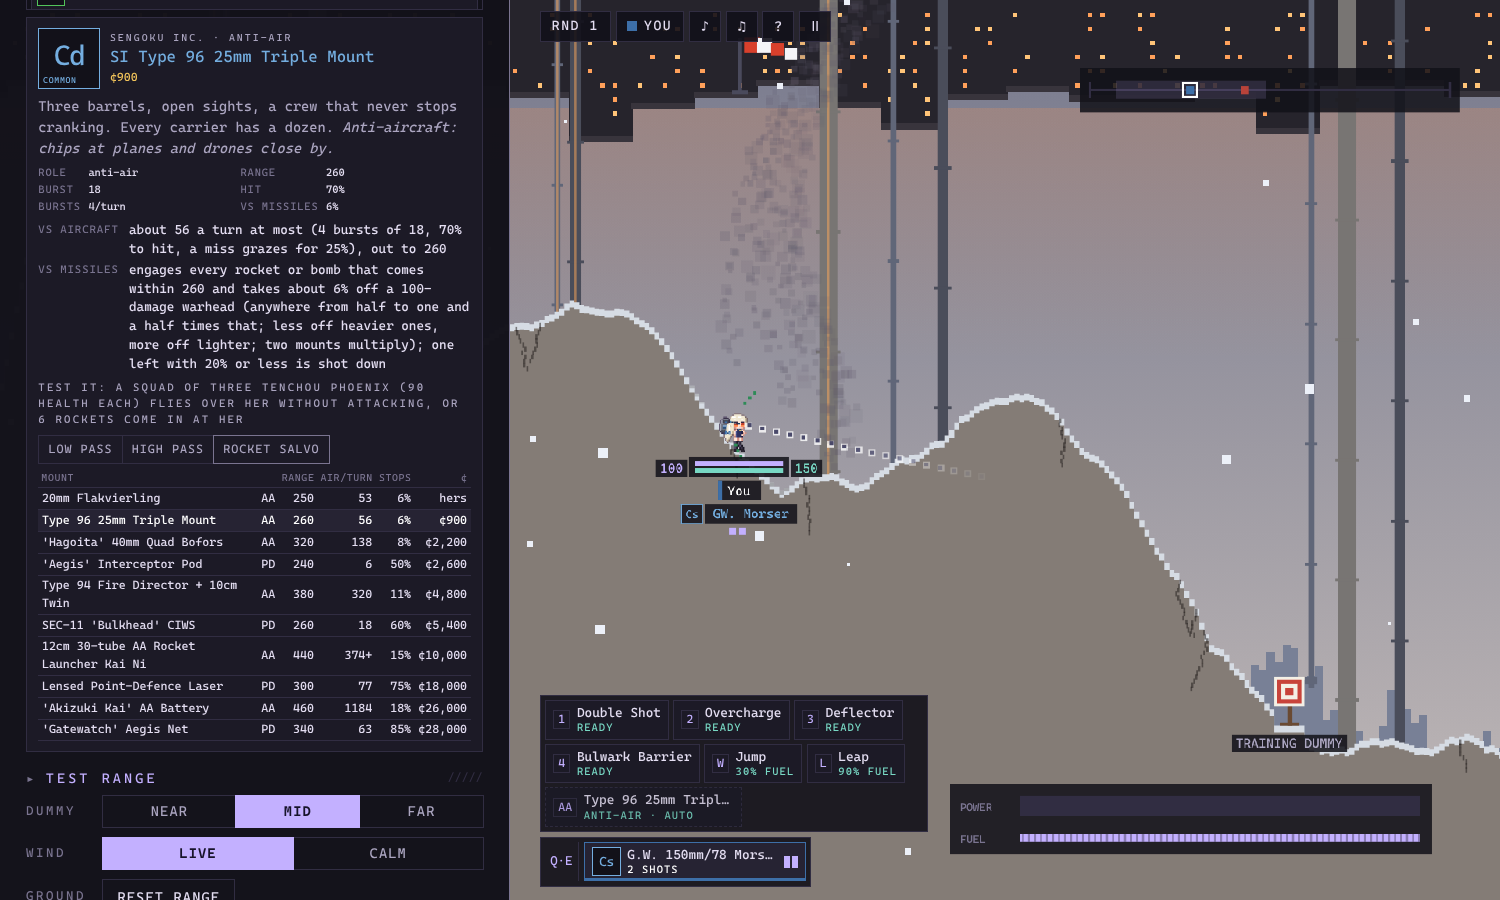
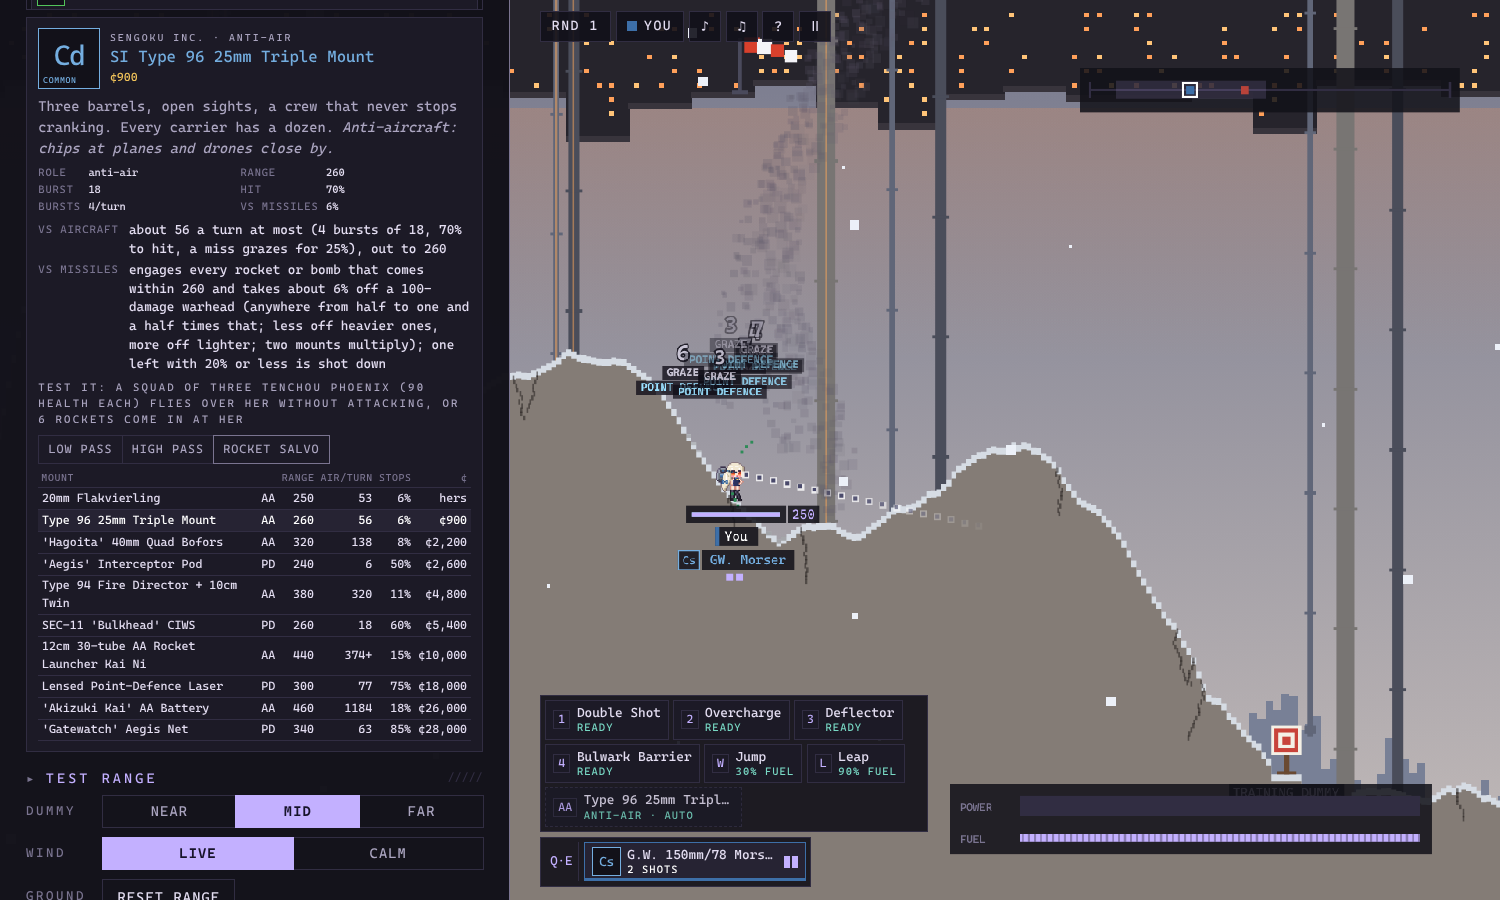
Hits on planes and point-defence hits use the normal damage popups (AA / POINT DEFENCE / ARMOUR tags)
Claude-Session: https://claude.ai/code/session_01LZSoEbnkSzMMmLtHCHSc2C

diff --git a/web/js/planes.js b/web/js/planes.js
@@ -690,18 +690,19 @@ Object.assign(Game.prototype, {
   damagePlane(p, amt, owner, def, hit) {
     if (!p.alive || p.owner === owner) return;
     if (def && (def.kind === 'flak' || def.airburst)) { amt *= FLAK_MOB_MULT; if (hit) hit.flak = true; }
-    if (p.drill && this.range) { this.drillHit(p, amt); return; } // (the Codex's AA drill: tallied, not destroyed)
+    // the same hit popup as any other hit (a burst with no shot behind it, like AA's, is scored on how
+    // much of the plane it took)
+    hit = hit || { q: clamp(amt / (p.maxHp || 1), 0, 1), alt: 0, kin: 0, front: 1, aa: !!(def && def.aa) };
+    if (p.drill && this.range) { this.drillHit(p, amt, hit); return; } // (the Codex's AA drill: tallied, not destroyed)
     p.flash = 1;
     if (p.armour > 0) { // a fortress's armour takes a whole hit, however big, like a girl's
       const a = Math.min(amt, p.armour);
       p.armour -= a;
-      if (hit) this.hitPopup(p.sx, p.sy - 26, a, hit, p);
-      else this.particles.text(p.sx, p.sy - 26, String(Math.round(a)), '#c8d2e4');
+      this.hitPopup(p.sx, p.sy - 26, a, { ...hit, armour: true }, p);
       return;
     }
     p.hp -= amt;
-    if (hit) this.hitPopup(p.sx, p.sy - 26, amt, hit, p);
-    else this.particles.text(p.sx, p.sy - 26, String(Math.round(amt)), '#ffffff');
+    this.hitPopup(p.sx, p.sy - 26, amt, hit, p);
     if (p.hp > 0) return;
     p.alive = false; // (no bounty: they're somebody's planes)
     const c = p.center();

diff --git a/web/js/aa.js b/web/js/aa.js
@@ -180,7 +180,10 @@ Object.assign(Game.prototype, {
     }
     if (r.kind === 'shot') {
       if (tg.dead || !this.projectiles.includes(tg)) return; // gone (point defence doesn't miss: see the top)
-      tg.aaCut = (tg.aaCut || 1) * (1 - aaKill(A, tg)); // (the hit takes its share of the damage off)
+      const was = tg.aaCut || 1;
+      tg.aaCut = was * (1 - aaKill(A, tg)); // (the hit takes its share of the damage off)
+      const off = (tg.w.dmg || 0) * (was - tg.aaCut); // (what it took off the warhead, shown like any hit)
+      if (off >= 1) this.hitPopup(tg.x, tg.y - 20, off, { q: clamp(1 - tg.aaCut, 0, 1), alt: 0, kin: 0, front: 1, pd: true });
       tg.aaHit = true; // (it trails smoke from here)
       if (tg.aaCut <= AA_SHOT_DOWN) { // little left of it: down it goes
         tg.dead = true;
@@ -189,7 +192,7 @@ Object.assign(Game.prototype, {
         this.sfx.explosion(10);
         if (this.report) this.report.intercepts = (this.report.intercepts || 0) + 1;
         if (this.range && this.range.drill) { this.range.stopped++; this.ui.codexReadout(); }
-      } else this.particles.text(tg.x, tg.y - 20, `HIT −${Math.round((1 - tg.aaCut) * 100)}%`, A.role === 'missile' ? '#9ae0ff' : '#e8d8a0');
+      }
       return;
     }
     // aircraft

diff --git a/web/js/game.js b/web/js/game.js
@@ -1226,6 +1226,9 @@ class Game {
     if (h.shield) chips.push(['DEFLECTOR ½', '#96d2ff']);
     if (h.capped) chips.push(['REDUNDANCY CAP', '#c3b0ff']);
     if (h.flak) chips.push(['FLAK ×2', '#78d8c4']);
+    if (h.aa) chips.push(['AA', '#e8d8a0']);
+    if (h.pd) chips.push(['POINT DEFENCE', '#9ae0ff']);
+    if (h.armour) chips.push(['ARMOUR', '#c8d2e4']);
     const tag = n > 1 ? `${HIT_TIERS[tier].tag} · ${n} HITS` : HIT_TIERS[tier].tag;
     const life = HIT_POPUP_LIFE + h.q + chips.length * 0.15;
     if (live) Object.assign(live, { q, total, n, str: String(Math.round(total)), color, size, tag, chips, punchAt: live.age, life: Math.max(live.life, live.age + life) });

diff --git a/web/js/codex.js b/web/js/codex.js
@@ -273,12 +273,12 @@ Object.assign(Game.prototype, {
   },
 
   // a drill target took a hit: tally it, and keep it flying
-  drillHit(p, amt) {
+  drillHit(p, amt, hit) {
     const r = this.range;
     r.last += amt; r.total += amt; r.best = Math.max(r.best, r.last);
     p.flash = 1;
     p.taken = (p.taken || 0) + amt;
-    this.particles.text(p.sx, p.sy - 26, String(Math.round(amt)), '#ffffff');
+    this.hitPopup(p.sx, p.sy - 26, amt, hit, p);
     if (!p.downed && p.taken >= p.maxHp) { p.downed = true; r.downs++; this.particles.text(p.sx, p.sy - 44, 'DOWNED', '#ffd84a', true); }
     this.ui.codexReadout();
   },
